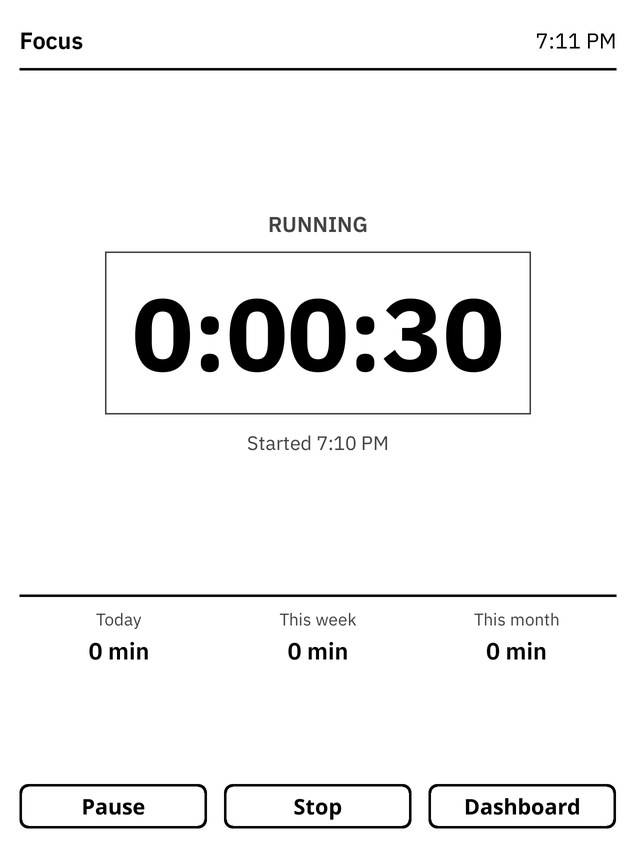
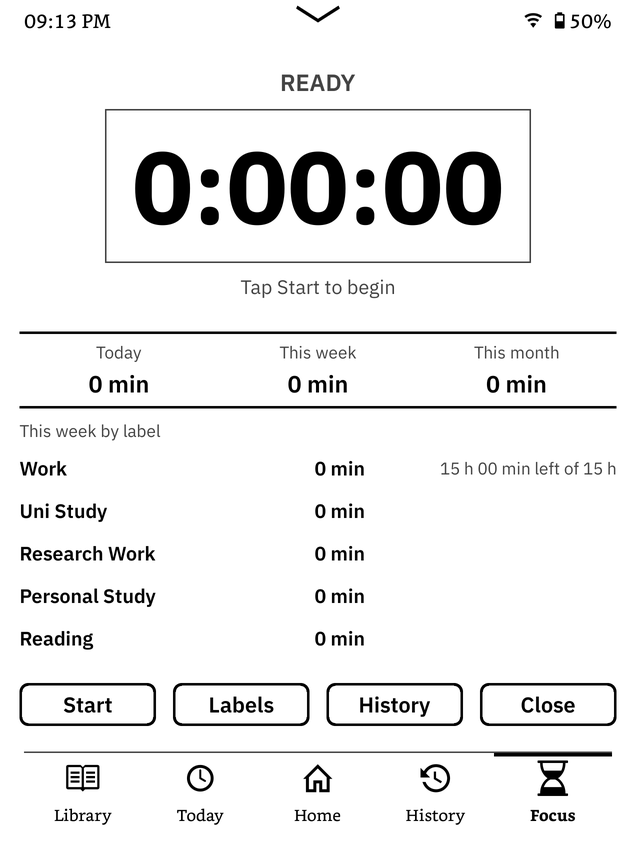
README for Simple UI build; new screenshots

diff --git a/README.md b/README.md
@@ -1,24 +1,54 @@
 # kindle-dashboard
 
-A desk dashboard for a jailbroken Kindle Paperwhite (12th gen / PW6), built as a [KOReader](https://koreader.rocks) plugin. It shows the clock, prayer times with Arabic names, the Hijri date, the weather, and the last book you read. It also has a focus stopwatch and a quote lock screen.
+Prayer times, weather, a focus stopwatch and adhkar for a jailbroken Kindle Paperwhite (12th gen / PW6), as [KOReader](https://koreader.rocks) plugin modules for the [Simple UI](https://github.com/doctorhetfield-cmd/simpleui.koplugin) Home screen. It also has a quote lock screen.
+
+**Simple UI is required.** This plugin adds modules and quick actions to Simple UI through its public module registry and quick-action API. It does not include Simple UI code, so this code stays MIT. Without Simple UI the plugin loads, but it shows no modules.
 
 Inspired by [kindil](https://github.com/sharno/kindil) by sharno, a prayer-time wall dashboard for the first Kindle Paperwhite.
 
-| Dashboard | Focus stopwatch | Lock screen |
+| Home | Today | Focus |
 |---|---|---|
-| ![Dashboard](docs/screenshots/dashboard.png) | ![Focus stopwatch](docs/screenshots/stopwatch.png) | ![Lock screen](docs/screenshots/lockscreen.png) |
+| ![Home](docs/screenshots/home.png) | ![Today](docs/screenshots/today.png) | ![Focus stopwatch](docs/screenshots/stopwatch.png) |
+| **Adhkar** | **Lock screen** | |
+| ![Adhkar](docs/screenshots/adhkar.png) | ![Lock screen](docs/screenshots/lockscreen.png) | |
 
-## Features
+## Simple UI Home modules
 
-- **Prayer times** computed on the device (PrayTimes algorithm), with the next prayer and a countdown. Jumu'ah on Fridays. Checked against Aladhan to within 1 minute.
-- **Hijri date** from the Umm al-Qura tables, with an offset setting for local moon sighting.
-- **Weather** from [Open-Meteo](https://open-meteo.com): now, a rain line ("Rain in ~40 min"), and the next 6 hours. Fetched in a child process, so taps never wait for the network.
-- **Last book card**: the cover, title, author, progress and time left (from KOReader reading statistics). Tap it to continue reading.
-- **Focus stopwatch**: a full-screen stopwatch with today, week and month totals. Single sessions are kept for 12 months, then only day totals.
+Add them with Simple UI's "Add module" (group "Extras"), on any Home page or Custom Screen. Long-press a module for Simple UI's size and layout settings. The clock and the current book card are Simple UI's own modules.
+
+- **Prayer times** (`dash_prayer`): the next prayer with its Arabic name and a countdown, the Hijri date with the Arabic month, and the 6 times with Arabic names (the next one is black). Jumu'ah on Fridays. Computed on the device (PrayTimes algorithm), checked against Aladhan to within 1 minute. Hijri date from the Umm al-Qura tables, with an offset setting for local moon sighting.
+- **Weather** (`dash_weather`): from [Open-Meteo](https://open-meteo.com): now, a rain line ("Rain in ~40 min"), and the next 6 hours. Fetched in a child process, so taps never wait for the network. The result stays in memory and is fetched again every `weather_minutes`. Tap to fetch now.
+- **Focus** (`dash_focus`): the running (or last) label, the running time, the time today and the weekly goal left. Tap to open the full focus stopwatch.
+- **Adhkar reminder** (`dash_adhkar`): shows only while the morning or evening adhkar are due. Tap to open the adhkar screen.
+- **Quick actions** `dash_stopwatch` (Focus, hourglass icon) and `dash_adhkar_open` (Adhkar): use them as a bottom-bar tab, in a Quick Actions row or in the quick-settings bar. The stopwatch and the adhkar screen show Simple UI's bars; while the stopwatch is open, the Focus tab is active.
+- **E-ink friendly**: each minute only the modules whose text changed are redrawn, with a partial "ui" refresh of their own area, and a flashing refresh of that area every `full_refresh_minutes` changes. The timer stops while the device sleeps, a book is open or the Home screen is closed.
+
+Simple UI is the start screen and the screen after a book closes (Simple UI settings).
+
+## Other features
+
+- **Focus stopwatch**: a full-screen stopwatch (Start and Stop, no pause) with today, week and month totals. Single sessions are kept for 12 months, then only day totals per label.
+- **Stop dialog**: Stop shows the label, date, start, end and duration. Correct any of them with touch pickers, then **Save**, **Discard** (after a confirm) or **Cancel** (the session keeps running). Sessions shorter than 1 min are not saved.
+- **History**: newest first. Tap a session to change its label, date, start or end, or to delete it. **+ Add past session** adds one by hand. An end time before the start time is on the next day. Times in the future or more than 12 months ago are rejected. Sessions older than 12 months (day totals) cannot be edited.
+- **Idle view**: while the stopwatch runs and nobody touches it for `focus_idle_seconds`, it shows the label, the running time (h:mm:ss) and the weekly goal left, turned 90° clockwise. Only the time area is redrawn each second. A touch goes back to the stopwatch and does nothing else. While it runs, the stopwatch keeps the Kindle awake (KOReader auto-suspend paused, powerd `preventScreenSaver`); the power button still sleeps it.
+- **Session labels and weekly goals**: Start asks for a label (default: Work, Uni Study, Research Work, Personal Study; the last used label is first). The stopwatch shows one row per label with the time done this week (from Monday) and the time left to its weekly goal, or "Goal met". Tap **Labels** (when the stopwatch is not running) to add, rename or remove a label and to set its goal in hours. A removed label leaves the Start list only: its past sessions keep their label and still count.
 - **Quote lock screen** while the device sleeps, unlocked with a swipe up.
 - **Arabic books** turn pages right-to-left automatically.
-- **E-ink friendly**: only the clock area is redrawn each minute, with a full refresh every 30 min.
-- **Edge swipes** on the dashboard: left edge for brightness, right edge for warmth.
+- **Home folder sort**: the home folder is sorted by "last opened" (reading history).
+- **Brightness and warmth**: use KOReader gestures (left edge swipe: brightness, right edge swipe: warmth). Simple UI passes edge swipes to them.
+
+## Adhkar
+
+Morning and evening adhkar (أذكار الصباح والمساء) from Hisn al-Muslim, stored in the plugin (`adhkardata.lua`, works offline). Morning has 23 adhkar, evening 21.
+
+- **Open**: tap the Adhkar reminder module, the `dash_adhkar_open` quick action, or **Adhkar** in the tools (wrench) menu.
+- **Default set** by the plugin's prayer times: morning from Fajr to Asr, evening from Asr to the next Fajr. **Morning** / **Evening** at the top opens the other set.
+- **One dhikr per screen**: the Arabic text (its size goes down until it fits; if it still does not fit, swipe up and down), the virtue (فضل) when Hisn al-Muslim gives one, and the hadith reference. The big number is the count left.
+- **Tap** anywhere on the text or the number to count one. At 0 the next dhikr shows. **Back**: previous dhikr. **Skip**: next dhikr. **Reset**: count the current dhikr again from the start. **Close**.
+- **Progress** is saved in `koreader/settings/dashboard_adhkar.lua` (`morning`, `evening`: `key` = start date of the period, `index`, `left`, `done`). Reopen to continue. Morning progress starts again at each Fajr, evening progress at each Asr.
+- **Reminder**: from Fajr until the morning set is done (or until Asr), the reminder module shows "أذكار الصباح". From Asr until the evening set is done (or until the next Fajr), it shows "أذكار المساء". Other times it is not shown.
+
+Test: `TZ=America/Chicago luajit test/adhkar_test.lua`
 
 ## How it runs
 
@@ -33,6 +63,7 @@ KOReader runs **without the Amazon UI** (`koreader.sh --framework_stop`). This f
 ## Requirements
 
 - A jailbroken Kindle with KOReader, and root SSH as host `mykindle` in your SSH config.
+- [Simple UI](https://github.com/doctorhetfield-cmd/simpleui.koplugin) installed and enabled (tested with 3.1.0).
 - The upstart jobs need a writable root (`mntroot rw`), which `deploy.sh` does for you.
 
 ## Install
@@ -58,9 +89,18 @@ Then start KOReader from the library tile "KOReader (no Amazon UI)", or reboot.
 | `clock` | `12h` | `12h` or `24h` |
 | `hijri_offset` | `0` | Days to add to the Umm al-Qura date |
 | `temperature_unit` | `celsius` | `celsius` or `fahrenheit` |
-| `autostart` | `true` | Show the dashboard when KOReader starts and when a book closes |
-| `full_refresh_minutes` | `30` | Full e-ink refresh interval |
+| `full_refresh_minutes` | `30` | A module area gets a flashing refresh after this many minute updates |
 | `weather_minutes` | `30` | Weather update interval |
+| `focus_idle_seconds` | `5` | Seconds without a touch before the running stopwatch shows the idle view |
+
+`koreader/settings/dashboard_focus.lua` holds the stopwatch data. Edit labels and goals on the device with **Labels**:
+
+| Key | Meaning |
+|---|---|
+| `labels` | Ordered list of `{ name = "Work", goal_hours = 10 }`. No `goal_hours` (or 0): no goal |
+| `state` | The running session: `started`, `label`. A paused session from an older version runs on from its start |
+| `sessions` | Sessions of the last 12 months: `start`, `stop`, `secs`, `label`. `secs` = `stop - start`; older sessions with pauses keep their active time until their times are edited. Sessions without a label count as "No label" |
+| `days` | Older sessions as `days["YYYY-MM-DD"][label] = secs` |
 
 The lock-screen quote is drawn by `tools/quote_make.py` (run by `deploy.sh`). Edit it to change the quote.
 
@@ -68,6 +108,7 @@ The lock-screen quote is drawn by `tools/quote_make.py` (run by `deploy.sh`). Ed
 
 ```sh
 lua5.4 test/verify.lua <lat> <lon> <method> <y> <m> <d> <utc offset>
+luajit test/focusstore_test.lua
 ```
 
 ## Credits
@@ -76,8 +117,10 @@ lua5.4 test/verify.lua <lat> <lon> <method> <y> <m> <d> <utc offset>
 - Prayer-time math: the PrayTimes algorithm.
 - Hijri data: [hijridate](https://github.com/dralshehri/hijridate) 2.6.0 (MIT), official Umm al-Qura tables.
 - Weather: [Open-Meteo](https://open-meteo.com).
+- Critter "Cinder": based on "Pixel Phoenix" by [zonked](https://opengameart.org/content/pixel-phoenix) (CC0), sprite sheet in `tools/assets`. `tools/critter_phoenix.py` (run by `deploy.sh`) makes it gray for e-ink and draws its faces, crest, tail and mood symbols.
 - Fonts: [IBM Plex Sans](https://github.com/IBM/plex) and [Zain](https://fonts.google.com/specimen/Zain), both SIL OFL (licenses in `dashboard.koplugin/fonts`).
+- Adhkar text: [Morning-And-Evening-Adhkar-DB](https://github.com/Seen-Arabic/Morning-And-Evening-Adhkar-DB) by Seen Arabic (MIT, `ar.json` at commit 39d422f; license in `adhkardata.lua`), from the book "حصن المسلم من أذكار الكتاب والسنة" by Sa'id bin Ali bin Wahf al-Qahtani. Changes: the opening line "الحمد لله وحده…" removed (it is not a dhikr); Al-Ikhlas, Al-Falaq and An-Nas joined in one dhikr said 3 times, with the basmala, as in the book; diacritics added to the evening variants that had none; typos fixed (الْمُلْكُ, الذُّنُوبَ, نَبِيِّنَا, the evening "أمسينا وأمسى الملك لله رب العالمين"); sura and ayah numbers moved from the text to the reference; book-font artifacts and repeated reference text removed.
 
 ## License
 
-MIT, see [LICENSE](LICENSE). The fonts keep their own SIL OFL licenses (`dashboard.koplugin/fonts`).
+MIT, see [LICENSE](LICENSE). The fonts keep their own SIL OFL licenses (`dashboard.koplugin/fonts`). Simple UI (GPL-3.0) is a separate plugin; this repository has none of its code.
